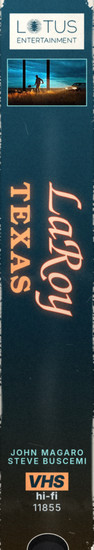
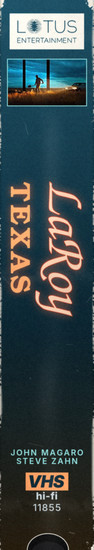
Check every spine credit against IMDb; fix LaRoy, Texas and Who Took Johnny; never-guess rule
Claude-Session: https://claude.ai/code/session_01RnhGoJqa9rRhQf9bNJkHdN

Changed region(s): [[0.4468, 0.8345, 0.9149, 0.8655], [0.1702, 0.8036, 0.4255, 0.8655], [0.0851, 0.8345, 0.1489, 0.8655]]

diff --git a/spinegen/tapes.py b/spinegen/tapes.py
@@ -993,7 +993,7 @@ std('gone-girls-the-long-island-serial-killer-2025', ('grad', [(0, (34, 66, 76))
 # Who Took Johnny (2014): a library copy of a true-crime documentary, concrete grey, the poster's distressed red capitals
 std('who-took-johnny-2014', ('grad', [(0, (90, 84, 78)), (.6, (52, 48, 44)), (1, (20, 18, 16))]), (220, 50, 40),
     L([(0.02, 0.33, 0.54, 0.52), (0.02, 0.52, 0.62, 0.735), (0.02, 0.735, 0.98, 0.94)], 124, (224, 54, 44), mode='key', key=(214, 50, 44), t=(70, 150), speck=.01, gapf=.18),
-    photo=ph(.7, .38, .36, 1.2), pb=(236, 232, 222), studio=['A DOCUMENTARY BY', 'BEILINSON & HAWLEY'], scol=(220, 214, 204), order='lPTSF',
+    photo=ph(.7, .38, .36, 1.2), pb=(236, 232, 222), studio=['A DOCUMENTARY BY', 'BEILINSON, GALINSKY', '& HAWLEY'], scol=(220, 214, 204), order='lPTSF',
     stick=BAR('364.15 WHO', top='PUBLIC LIBRARY', fill=(236, 234, 224)), ft='b', fcol=(190, 184, 176), fin=OLD, seed=2014)
 
 # The Disappearance of Madeleine McCann: a boxed docuseries, the Algarve sand and the shadow on it (title typeset in
@@ -1399,7 +1399,7 @@ std('telemarketers-2023', ('solid', (246, 226, 190)), (24, 20, 18),
 # LaRoy, Texas: a stormy teal sky, a motel-sign script and slab in neon (typeset: the sign won't lift off the sky)
 std('laroy-texas-2024', ('grad', [(0, (30, 80, 100)), (.6, (14, 40, 52)), (1, (40, 30, 16))]), (250, 160, 100),
     [T('LaRoy', 'cho', 110, (250, 210, 180), soft=((250, 120, 80), 8, .8), outline=((180, 60, 40), 1.4)), T('TEXAS', 'bonb', 56, (250, 170, 110), soft=((250, 100, 60), 7, .7), track=.1)],
-    photo=ph(.6, .8, .7, .6), pb=(150, 230, 230), lg=WHT, lw=.8, order='LPTCF', tgap=10, credit=['JOHN MAGARO', 'STEVE BUSCEMI'], ccol=(150, 230, 230),
+    photo=ph(.6, .8, .7, .6), pb=(150, 230, 230), lg=WHT, lw=.8, order='LPTCF', tgap=10, credit=['JOHN MAGARO', 'STEVE ZAHN'], ccol=(150, 230, 230),
     ft='a', vbox=(250, 160, 100), vink=(14, 40, 52), fcol=(200, 214, 220), fin=SLIP)
 
 # The Fugitive (1993): black with a white diagonal streak, tall white condensed capitals, Ford on the run

diff --git a/CLAUDE.md b/CLAUDE.md
@@ -45,9 +45,10 @@ One designed spine picture per tape, made in November 2026 with `spinegen/` (por
 - Titles are lifted from the poster where the `titleBox` gives a clean result and typeset otherwise (e.g. F1, Heel, Crime 101, Marty Supreme, Con Air, Face/Off, Spider-Man, the films with no `titleBox`).
 - Catalogue numbers, sticker text and prices are invented. Malice uses the Castle Rock logo file because `films.json` has the wrong studio (Nelvana) for it.
 - Check new spines scaled to 250px tall; thin lettering fades at that size.
+- **Never guess a name on a spine (Ian, 17 Nov 2026).** Every cast, director, writer and studio/label line must come from a source, never from memory: the film's IMDb page (`director` and `actor` in its JSON-LD give the director and top-billed cast), its full cast page (`/title/<id>/fullcredits/`) or company page (`/title/<id>/companycredits/`), read from Ian's built-in browser on imdb.com like the scores. If a name can't be checked, leave the line generic ("A DOCUMENTARY", "STAND-UP SPECIAL") or off. On 17 Nov 2026 every credit and typed label on all five shelves was checked this way: all matched except LaRoy, Texas (Steve Buscemi is not in it; now JOHN MAGARO / STEVE ZAHN) and Who Took Johnny (one of its three directors was missing; now BEILINSON, GALINSKY & HAWLEY).
 - Rules Ian has set for spines: card wear must never show on the cassette inside the thumb notch (it is plastic; `finish_vhs(notch=...)` repaints it after the wear), the VHS mark and numbers always sit at the foot, and every spine has its title running down it (no title blocks set across the top; Girl in the Box and The Devil Wears Prada 2 were redone for this on 16 November 2026).
 - Disney and Pixar films do not use the slipcase layout: see "Disney and Pixar clamshells" below.
-- Look and sources: modelled on Ian's reference image of modern films given retro VHS box spines (title in the poster's own lettering, a framed picture at the head, studio logo, format mark and catalogue number at the foot, rental stickers, worn card). Studio logos and poster crops (including animated and comic characters) are welcome on spines; logos are placed from `logos/`, never redrawn. The typed-only "ZIPPORAH FILMS" (High School) and "UTOPIA" (The Sweet East), and the cast/director credit lines on some spines, were written from memory and may be wrong.
+- Look and sources: modelled on Ian's reference image of modern films given retro VHS box spines (title in the poster's own lettering, a framed picture at the head, studio logo, format mark and catalogue number at the foot, rental stickers, worn card). Studio logos and poster crops (including animated and comic characters) are welcome on spines; logos are placed from `logos/`, never redrawn. The typed-only labels ("ZIPPORAH FILMS" on High School, "UTOPIA" on The Sweet East and the others) and all the cast/director lines were checked against IMDb on 17 Nov 2026 (see the never-guess rule above).
 - Five tapes have no logo file and carry a line of type instead: High School, The Sweet East, Louis C.K.: Ridiculous, Jeff Arcuri, Face/Off.
 - Not verified: that the "Re-mark spine" button is hidden on designed tapes (it only shows with the GitHub token saved, so it could not be seen in a test browser).
 - Ian decided against making the generator follow the Re-mark spine editor (a GitHub Action re-rendering on each edit was considered and dropped as too much trouble). To change a designed spine, ask Claude to edit its spec.
@@ -59,7 +60,7 @@ One designed spine picture per tape, made in November 2026 with `spinegen/` (por
   - Two lines in `V([...])` sit side by side across the spine, the first on the right (it reads first, head turned right). Three lines rarely fit; join them into one line instead.
   - Older films (before about 2003) got `fin=RENTAL` or `OLD` with `seed=<year>` and a barcode or price sticker; new ones `MINT`/`SLIP`.
 - 2024 shelf: all 98 spines (16 Nov 2026), in their own block of `tapes.py` after 2025's, made the same way. Typeset where the lift failed (each spec's comment says so); lifts that looked fine at contact-sheet size often broke on the spine (thin or spaced capitals, speckled or busy grounds), so render every batch and look before moving on. Eight 2024 films have no studio logo (`logo` empty in films-2024.json); a spec for one must use `studio=[...]` with `l` in the order instead of `L`, or `logo()` crashes on the empty path. The four Pixar clamshells are at the end of the Disney block: Inside Out 2, Kitbull and Purl cut their title logos off the poster with `LC(..., cuts=[key_cut(test)])` (`key_cut` keeps pixels passing a colour test, in their own colours); Elemental's translucent rainbow logo wouldn't cut cleanly, so ELEMENTAL is typeset letter by letter in the logo's colours with `TT` (Ian could supply the logo image).
-- 2023 and 2022 shelves: all 66 and 49 spines (16 Nov 2026), in their own blocks at the end of `tapes.py` (after the Disney block, because some use `key_cut`). Made the same way, a batch of about 12 at a time; each spec's comment says where the title is typeset. Barbie's logo is cut whole off the poster with `LC` (pale letters on the pink plate). Films without a studio logo name the label in type (`studio=[...]`, `l` in the order): stand-up specials say "STAND-UP SPECIAL"; Badlands, The Batman (WARNER BROS.), Sleuth (20TH CENTURY FOX), The Chaser (SHOWBOX), Sound of Freedom (ANGEL STUDIOS), The Foot Fist Way (PARAMOUNT VANTAGE), I Like Movies (its director) and Reality (FIT VIA VI) were typed from memory. Killers of the Flower Moon (206 min) is a 2-tape set like The Brutalist; Oppenheimer (181) was left as one tape. Kiki's Delivery Service is Ghibli, so it stays in a slipcase.
+- 2023 and 2022 shelves: all 66 and 49 spines (16 Nov 2026), in their own blocks at the end of `tapes.py` (after the Disney block, because some use `key_cut`). Made the same way, a batch of about 12 at a time; each spec's comment says where the title is typeset. Barbie's logo is cut whole off the poster with `LC` (pale letters on the pink plate). Films without a studio logo name the label in type (`studio=[...]`, `l` in the order): stand-up specials say "STAND-UP SPECIAL"; Badlands, The Batman (WARNER BROS.), Sleuth (20TH CENTURY FOX), The Chaser (SHOWBOX), Sound of Freedom (ANGEL STUDIOS), The Foot Fist Way (PARAMOUNT VANTAGE), I Like Movies (its director) and Reality (FIT VIA VI); all checked against IMDb's company credits. Killers of the Flower Moon (206 min) is a 2-tape set like The Brutalist; Oppenheimer (181) was left as one tape. Kiki's Delivery Service is Ghibli, so it stays in a slipcase.
 - Multi-tape boxes: The Brutalist (215 min) is a 2-tape set, so its spec sets `W=2 * w_for(115)` (twice an average tape, about 86px on the shelf; Ian found twice the widest tape too wide) and `notch_w=1.5 * w_for(115)` so its thumb notch is 1.5x a normal one rather than doubled. `prepare()` in `app.js` shows any spine picture much wider than the runtime rule at its own width, so it takes two slots on the shelf.
 - `spinegen/check_boxes.py`: draws a spec's title boxes and photo crops over the posters, tiled, to check them before rendering (see "2025 shelf").
 - To add a tape: add a spec to `tapes.py` (copy a similar one), pick the `photo=ph(cx, cy, w, ar)` crop so it avoids the poster's title, run the script for that key.
